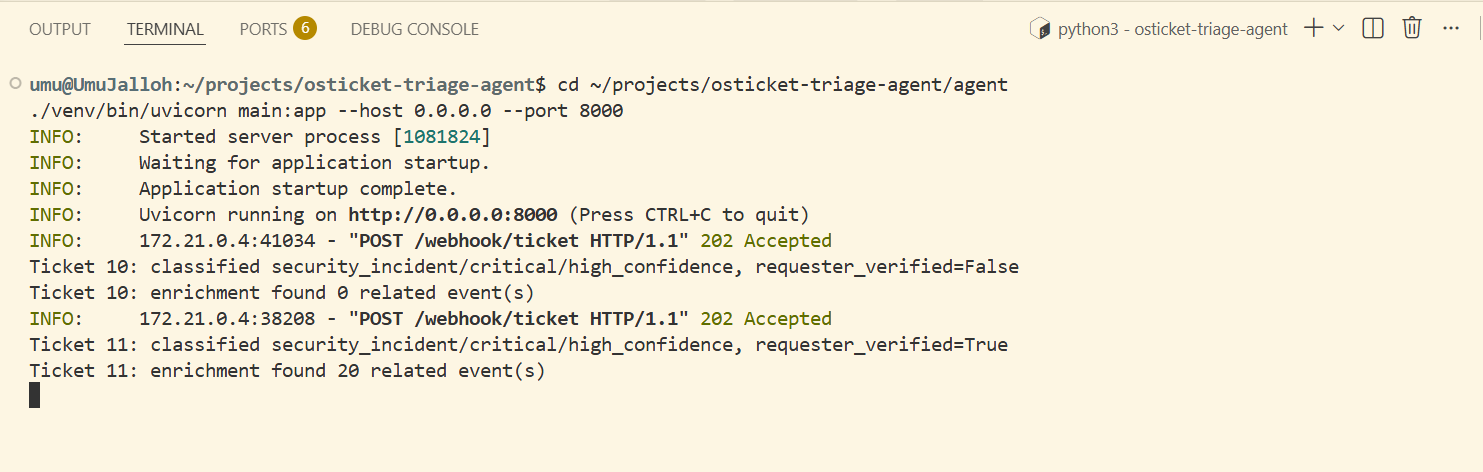
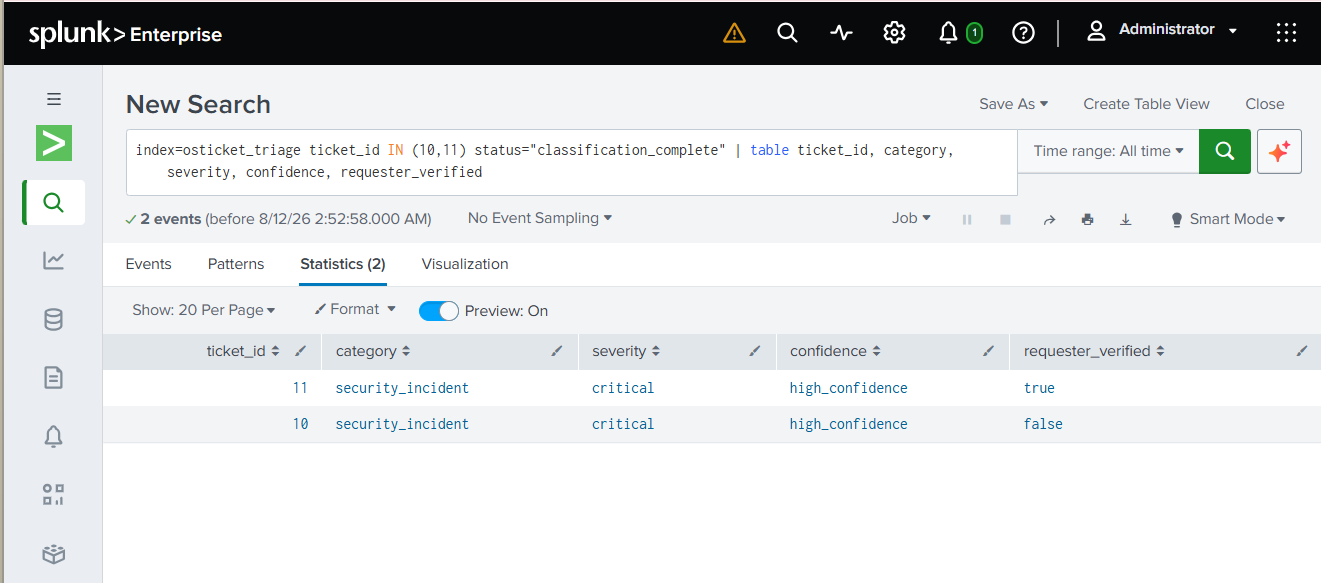
Show the authentication gate as a console and audit pair
The audit record shows which field differed between the two tickets, the console
shows what that difference produced. One caption covers both, matching the
classification example above it.

Updated: README.md, docs/images/auth-gate.png,
docs/images/auth-gate-console.png

diff --git a/README.md b/README.md
@@ -83,10 +83,13 @@ out of paper, classified and audited:
 ![Splunk audit events](docs/images/splunk-audit.png)
 
 The same ticket filed twice with the same requester address, once as a guest and
-once signed in as that address. The submitter typed the address both times, so
-only the authenticated one is eligible to be searched:
+once signed in as that address. The classification is identical both times. The
+only difference is whether the agent was allowed to search that address, and
+what that difference produced:
 
-![Authentication gate](docs/images/auth-gate.png)
+![Authentication gate, agent output](docs/images/auth-gate-console.png)
+
+![Authentication gate, audit record](docs/images/auth-gate.png)
 
 ## Repository layout
 
